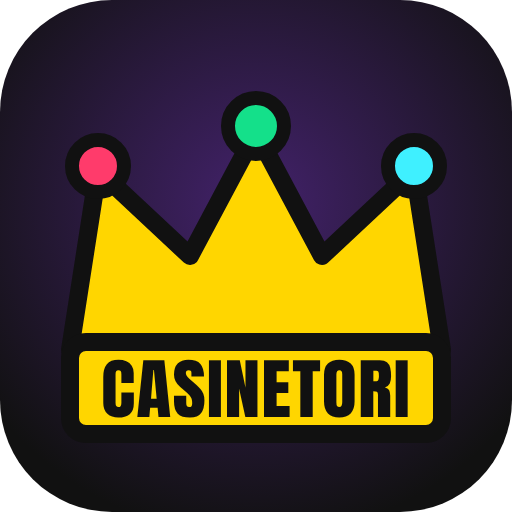
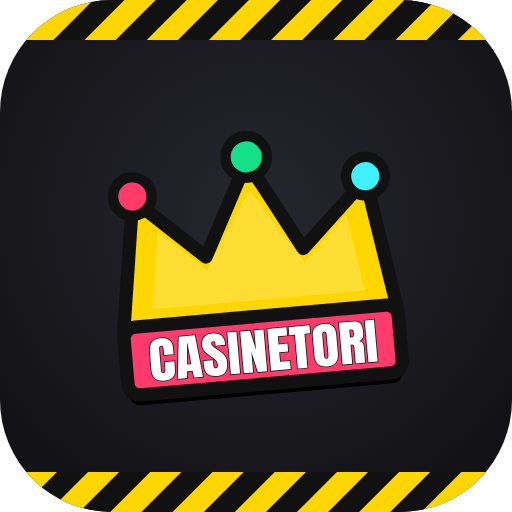
Icono v2: corona sobre negro con rayas de obra, banda rosa y sombra dura (estilo del juego)
Claude-Session: https://claude.ai/code/session_01BC8nAtJhdedbeHBd6GuHtL

diff --git a/preguntas.html b/preguntas.html
@@ -1,7 +1,7 @@
 <!doctype html><html lang="es"><head><meta charset="utf-8"><meta name="viewport" content="width=device-width,initial-scale=1">
 <title>Preguntas frecuentes | Casinetori</title><meta name="description" content="Respuestas sobre Casinetori: qué es, si usa dinero real (no), si es gratis, cómo jugar con amigos, el simulador de trading y cómo no perder tu cuenta."><meta name="theme-color" content="#0d1020">
-<link rel="icon" href="favicon.png?v=2"><link rel="canonical" href="https://casinetori.com/preguntas.html">
-<meta property="og:type" content="website"><meta property="og:site_name" content="Casinetori"><meta property="og:title" content="Preguntas frecuentes | Casinetori"><meta property="og:description" content="Respuestas sobre Casinetori: qué es, si usa dinero real (no), si es gratis, cómo jugar con amigos, el simulador de trading y cómo no perder tu cuenta."><meta property="og:url" content="https://casinetori.com/preguntas.html"><meta property="og:image" content="https://casinetori.com/og.png?v=3"><meta name="twitter:card" content="summary_large_image">
+<link rel="icon" href="favicon.png?v=4"><link rel="canonical" href="https://casinetori.com/preguntas.html">
+<meta property="og:type" content="website"><meta property="og:site_name" content="Casinetori"><meta property="og:title" content="Preguntas frecuentes | Casinetori"><meta property="og:description" content="Respuestas sobre Casinetori: qué es, si usa dinero real (no), si es gratis, cómo jugar con amigos, el simulador de trading y cómo no perder tu cuenta."><meta property="og:url" content="https://casinetori.com/preguntas.html"><meta property="og:image" content="https://casinetori.com/og.png?v=4"><meta name="twitter:card" content="summary_large_image">
 <script async src="https://pagead2.googlesyndication.com/pagead/js/adsbygoogle.js?client=ca-pub-7676884795750639" crossorigin="anonymous"></script><script type="application/ld+json">{"@context": "https://schema.org", "@type": "BreadcrumbList", "itemListElement": [{"@type": "ListItem", "position": 1, "name": "Casinetori", "item": "https://casinetori.com/"}, {"@type": "ListItem", "position": 2, "name": "Preguntas frecuentes sobre Casinetori", "item": "https://casinetori.com/preguntas.html"}]}</script><script type="application/ld+json">{"@context": "https://schema.org", "@type": "FAQPage", "mainEntity": [{"@type": "Question", "name": "¿Qué es Casinetori?", "acceptedAnswer": {"@type": "Answer", "text": "Casinetori es una plataforma de entretenimiento gratuita con casino virtual, trading simulado, minijuegos arcade, rankings y funciones para jugar con amigos."}}, {"@type": "Question", "name": "¿Casinetori usa dinero real?", "acceptedAnswer": {"@type": "Answer", "text": "No. Todo el dinero de Casinetori es ficticio. No se puede apostar dinero real ni comprar dinero del juego."}}, {"@type": "Question", "name": "¿Se puede ganar dinero real?", "acceptedAnswer": {"@type": "Answer", "text": "No. Las monedas y los resultados de Casinetori son virtuales y no tienen ningún valor fuera del juego."}}, {"@type": "Question", "name": "¿Es gratis?", "acceptedAnswer": {"@type": "Answer", "text": "Sí. Se juega gratis desde el navegador del móvil o del ordenador, sin instalar nada. La web se mantiene con anuncios."}}, {"@type": "Question", "name": "¿Se puede jugar con amigos?", "acceptedAnswer": {"@type": "Answer", "text": "Sí. Agregas a tus amigos con su código y podéis competir en la clasificación, regalaros dinero ficticio, mandaros mensajitos y jugar duelos online."}}, {"@type": "Question", "name": "¿Qué es el trading de Casinetori?", "acceptedAnswer": {"@type": "Answer", "text": "Es un simulador de trading con precios ficticios y dinero virtual. Sirve para entretenerse y entender cómo se mueve un mercado, no es asesoramiento financiero."}}, {"@type": "Question", "name": "¿Necesito crear una cuenta?", "acceptedAnswer": {"@type": "Answer", "text": "No. Puedes jugar sin cuenta y tu partida se guarda en tu dispositivo. Si entras con Google, tu partida se guarda en la nube y la tienes en cualquier móvil u ordenador."}}, {"@type": "Question", "name": "¿Qué pasa si pierdo mi cuenta?", "acceptedAnswer": {"@type": "Answer", "text": "Si entras con Google no la pierdes. Si usas usuario y contraseña, apunta tu código de recuperación (Ajustes › Cuenta): con él el jefe del juego puede devolverte la partida."}}]}</script><style>*{box-sizing:border-box}html{-webkit-text-size-adjust:100%}body{margin:0;background:#0d1020;color:#e9ecf8;font:17px/1.65 system-ui,-apple-system,"Segoe UI",Roboto,sans-serif}
 a{color:#ffd600}header{border-bottom:3px dashed #ffd600;background:#14172a}header .in,main,footer .in{max-width:760px;margin:0 auto;padding:16px}
 header .in{display:flex;align-items:center;gap:12px;justify-content:space-between}header a.logo{display:flex;align-items:center;gap:10px;color:#fff;text-decoration:none;font-weight:900;font-size:22px;letter-spacing:.5px}

diff --git a/grupos.html b/grupos.html
@@ -1,8 +1,8 @@
 <!doctype html>
 <html lang="es"><head><meta charset="utf-8"><meta name="viewport" content="width=device-width,initial-scale=1">
 <title>Grupos de amigos y Clasificación propia | Casinetori</title><meta name="description" content="Crea un grupo en Casinetori, invita con enlace o código y compara dinero ficticio, nivel y puntos con tus amigos. Puedes pertenecer a tres grupos."><meta name="theme-color" content="#0d1020">
-<link rel="icon" href="favicon.png?v=2"><link rel="canonical" href="https://casinetori.com/grupos.html">
-<meta property="og:type" content="website"><meta property="og:site_name" content="Casinetori"><meta property="og:locale" content="es_ES"><meta property="og:title" content="Grupos de amigos y Clasificación propia | Casinetori"><meta property="og:description" content="Crea un grupo en Casinetori, invita con enlace o código y compara dinero ficticio, nivel y puntos con tus amigos. Puedes pertenecer a tres grupos."><meta property="og:url" content="https://casinetori.com/grupos.html"><meta property="og:image" content="https://casinetori.com/og.png?v=3"><meta property="og:image:alt" content="Casinetori, juego con dinero ficticio"><meta name="twitter:card" content="summary_large_image">
+<link rel="icon" href="favicon.png?v=4"><link rel="canonical" href="https://casinetori.com/grupos.html">
+<meta property="og:type" content="website"><meta property="og:site_name" content="Casinetori"><meta property="og:locale" content="es_ES"><meta property="og:title" content="Grupos de amigos y Clasificación propia | Casinetori"><meta property="og:description" content="Crea un grupo en Casinetori, invita con enlace o código y compara dinero ficticio, nivel y puntos con tus amigos. Puedes pertenecer a tres grupos."><meta property="og:url" content="https://casinetori.com/grupos.html"><meta property="og:image" content="https://casinetori.com/og.png?v=4"><meta property="og:image:alt" content="Casinetori, juego con dinero ficticio"><meta name="twitter:card" content="summary_large_image">
 <script type="application/ld+json">{"@context": "https://schema.org", "@type": "BreadcrumbList", "itemListElement": [{"@type": "ListItem", "position": 1, "name": "Casinetori", "item": "https://casinetori.com/"}, {"@type": "ListItem", "position": 2, "name": "Grupos de amigos: vuestra propia Clasificación", "item": "https://casinetori.com/grupos.html"}]}</script><style>*{box-sizing:border-box}html{-webkit-text-size-adjust:100%}body{margin:0;background:#0d1020;color:#e9ecf8;font:17px/1.65 system-ui,-apple-system,"Segoe UI",Roboto,sans-serif}
 a{color:#ffd600}header{border-bottom:3px dashed #ffd600;background:#14172a}header .in,main,footer .in{max-width:760px;margin:0 auto;padding:16px}
 header .in{display:flex;align-items:center;gap:12px;justify-content:space-between}header a.logo{display:flex;align-items:center;gap:10px;color:#fff;text-decoration:none;font-weight:900;font-size:22px;letter-spacing:.5px}

diff --git a/bolsa.html b/bolsa.html
@@ -1,8 +1,8 @@
 <!doctype html>
 <html lang="es"><head><meta charset="utf-8"><meta name="viewport" content="width=device-width,initial-scale=1">
 <title>Bolsa de Jugadores con dinero ficticio | Casinetori</title><meta name="description" content="Descubre la Bolsa de Jugadores de Casinetori: acciones virtuales, cartera y precios según el progreso de los jugadores. Todo con dinero ficticio."><meta name="theme-color" content="#0d1020">
-<link rel="icon" href="favicon.png?v=2"><link rel="canonical" href="https://casinetori.com/bolsa.html">
-<meta property="og:type" content="website"><meta property="og:site_name" content="Casinetori"><meta property="og:locale" content="es_ES"><meta property="og:title" content="Bolsa de Jugadores con dinero ficticio | Casinetori"><meta property="og:description" content="Descubre la Bolsa de Jugadores de Casinetori: acciones virtuales, cartera y precios según el progreso de los jugadores. Todo con dinero ficticio."><meta property="og:url" content="https://casinetori.com/bolsa.html"><meta property="og:image" content="https://casinetori.com/og.png?v=3"><meta property="og:image:alt" content="Casinetori, juego con dinero ficticio"><meta name="twitter:card" content="summary_large_image">
+<link rel="icon" href="favicon.png?v=4"><link rel="canonical" href="https://casinetori.com/bolsa.html">
+<meta property="og:type" content="website"><meta property="og:site_name" content="Casinetori"><meta property="og:locale" content="es_ES"><meta property="og:title" content="Bolsa de Jugadores con dinero ficticio | Casinetori"><meta property="og:description" content="Descubre la Bolsa de Jugadores de Casinetori: acciones virtuales, cartera y precios según el progreso de los jugadores. Todo con dinero ficticio."><meta property="og:url" content="https://casinetori.com/bolsa.html"><meta property="og:image" content="https://casinetori.com/og.png?v=4"><meta property="og:image:alt" content="Casinetori, juego con dinero ficticio"><meta name="twitter:card" content="summary_large_image">
 <script type="application/ld+json">{"@context": "https://schema.org", "@type": "BreadcrumbList", "itemListElement": [{"@type": "ListItem", "position": 1, "name": "Casinetori", "item": "https://casinetori.com/"}, {"@type": "ListItem", "position": 2, "name": "Bolsa de Jugadores: una cartera basada en el juego", "item": "https://casinetori.com/bolsa.html"}]}</script><style>*{box-sizing:border-box}html{-webkit-text-size-adjust:100%}body{margin:0;background:#0d1020;color:#e9ecf8;font:17px/1.65 system-ui,-apple-system,"Segoe UI",Roboto,sans-serif}
 a{color:#ffd600}header{border-bottom:3px dashed #ffd600;background:#14172a}header .in,main,footer .in{max-width:760px;margin:0 auto;padding:16px}
 header .in{display:flex;align-items:center;gap:12px;justify-content:space-between}header a.logo{display:flex;align-items:center;gap:10px;color:#fff;text-decoration:none;font-weight:900;font-size:22px;letter-spacing:.5px}

diff --git a/casino.html b/casino.html
@@ -1,7 +1,7 @@
 <!doctype html><html lang="es"><head><meta charset="utf-8"><meta name="viewport" content="width=device-width,initial-scale=1">
 <title>Juegos de casino de mentira, sin dinero real | Casinetori</title><meta name="description" content="Juega gratis a juegos de casino virtual con monedas ficticias: tragaperras, ruleta, blackjack y más. Compite en la clasificación con tus amigos sin usar dinero real."><meta name="theme-color" content="#0d1020">
-<link rel="icon" href="favicon.png?v=2"><link rel="canonical" href="https://casinetori.com/casino.html">
-<meta property="og:type" content="website"><meta property="og:site_name" content="Casinetori"><meta property="og:title" content="Juegos de casino de mentira, sin dinero real | Casinetori"><meta property="og:description" content="Juega gratis a juegos de casino virtual con monedas ficticias: tragaperras, ruleta, blackjack y más. Compite en la clasificación con tus amigos sin usar dinero real."><meta property="og:url" content="https://casinetori.com/casino.html"><meta property="og:image" content="https://casinetori.com/og.png?v=3"><meta name="twitter:card" content="summary_large_image">
+<link rel="icon" href="favicon.png?v=4"><link rel="canonical" href="https://casinetori.com/casino.html">
+<meta property="og:type" content="website"><meta property="og:site_name" content="Casinetori"><meta property="og:title" content="Juegos de casino de mentira, sin dinero real | Casinetori"><meta property="og:description" content="Juega gratis a juegos de casino virtual con monedas ficticias: tragaperras, ruleta, blackjack y más. Compite en la clasificación con tus amigos sin usar dinero real."><meta property="og:url" content="https://casinetori.com/casino.html"><meta property="og:image" content="https://casinetori.com/og.png?v=4"><meta name="twitter:card" content="summary_large_image">
 <script async src="https://pagead2.googlesyndication.com/pagead/js/adsbygoogle.js?client=ca-pub-7676884795750639" crossorigin="anonymous"></script><script type="application/ld+json">{"@context": "https://schema.org", "@type": "BreadcrumbList", "itemListElement": [{"@type": "ListItem", "position": 1, "name": "Casinetori", "item": "https://casinetori.com/"}, {"@type": "ListItem", "position": 2, "name": "Casino virtual con dinero ficticio", "item": "https://casinetori.com/casino.html"}]}</script><style>*{box-sizing:border-box}html{-webkit-text-size-adjust:100%}body{margin:0;background:#0d1020;color:#e9ecf8;font:17px/1.65 system-ui,-apple-system,"Segoe UI",Roboto,sans-serif}
 a{color:#ffd600}header{border-bottom:3px dashed #ffd600;background:#14172a}header .in,main,footer .in{max-width:760px;margin:0 auto;padding:16px}
 header .in{display:flex;align-items:center;gap:12px;justify-content:space-between}header a.logo{display:flex;align-items:center;gap:10px;color:#fff;text-decoration:none;font-weight:900;font-size:22px;letter-spacing:.5px}

diff --git a/trading.html b/trading.html
@@ -1,7 +1,7 @@
 <!doctype html><html lang="es"><head><meta charset="utf-8"><meta name="viewport" content="width=device-width,initial-scale=1">
 <title>Simulador de trading con dinero virtual | Casinetori</title><meta name="description" content="Practica trading de forma virtual: opera con dinero ficticio, sigue tus resultados en gráficas en tiempo real y compite con otros jugadores en la clasificación."><meta name="theme-color" content="#0d1020">
-<link rel="icon" href="favicon.png?v=2"><link rel="canonical" href="https://casinetori.com/trading.html">
-<meta property="og:type" content="website"><meta property="og:site_name" content="Casinetori"><meta property="og:title" content="Simulador de trading con dinero virtual | Casinetori"><meta property="og:description" content="Practica trading de forma virtual: opera con dinero ficticio, sigue tus resultados en gráficas en tiempo real y compite con otros jugadores en la clasificación."><meta property="og:url" content="https://casinetori.com/trading.html"><meta property="og:image" content="https://casinetori.com/og.png?v=3"><meta name="twitter:card" content="summary_large_image">
+<link rel="icon" href="favicon.png?v=4"><link rel="canonical" href="https://casinetori.com/trading.html">
+<meta property="og:type" content="website"><meta property="og:site_name" content="Casinetori"><meta property="og:title" content="Simulador de trading con dinero virtual | Casinetori"><meta property="og:description" content="Practica trading de forma virtual: opera con dinero ficticio, sigue tus resultados en gráficas en tiempo real y compite con otros jugadores en la clasificación."><meta property="og:url" content="https://casinetori.com/trading.html"><meta property="og:image" content="https://casinetori.com/og.png?v=4"><meta name="twitter:card" content="summary_large_image">
 <script async src="https://pagead2.googlesyndication.com/pagead/js/adsbygoogle.js?client=ca-pub-7676884795750639" crossorigin="anonymous"></script><script type="application/ld+json">{"@context": "https://schema.org", "@type": "BreadcrumbList", "itemListElement": [{"@type": "ListItem", "position": 1, "name": "Casinetori", "item": "https://casinetori.com/"}, {"@type": "ListItem", "position": 2, "name": "Trading simulado con dinero virtual", "item": "https://casinetori.com/trading.html"}]}</script><style>*{box-sizing:border-box}html{-webkit-text-size-adjust:100%}body{margin:0;background:#0d1020;color:#e9ecf8;font:17px/1.65 system-ui,-apple-system,"Segoe UI",Roboto,sans-serif}
 a{color:#ffd600}header{border-bottom:3px dashed #ffd600;background:#14172a}header .in,main,footer .in{max-width:760px;margin:0 auto;padding:16px}
 header .in{display:flex;align-items:center;gap:12px;justify-content:space-between}header a.logo{display:flex;align-items:center;gap:10px;color:#fff;text-decoration:none;font-weight:900;font-size:22px;letter-spacing:.5px}

diff --git a/ranking.html b/ranking.html
@@ -1,7 +1,7 @@
 <!doctype html><html lang="es"><head><meta charset="utf-8"><meta name="viewport" content="width=device-width,initial-scale=1">
 <title>Clasificación de jugadores | Casinetori</title><meta name="description" content="Consulta la clasificación (ranking) de Casinetori: quién tiene más dinero ficticio, más nivel, más logros y los mejores récords en cada juego. Compite con tus amigos."><meta name="theme-color" content="#0d1020">
-<link rel="icon" href="favicon.png?v=2"><link rel="canonical" href="https://casinetori.com/ranking.html">
-<meta property="og:type" content="website"><meta property="og:site_name" content="Casinetori"><meta property="og:title" content="Clasificación de jugadores | Casinetori"><meta property="og:description" content="Consulta la clasificación (ranking) de Casinetori: quién tiene más dinero ficticio, más nivel, más logros y los mejores récords en cada juego. Compite con tus amigos."><meta property="og:url" content="https://casinetori.com/ranking.html"><meta property="og:image" content="https://casinetori.com/og.png?v=3"><meta name="twitter:card" content="summary_large_image">
+<link rel="icon" href="favicon.png?v=4"><link rel="canonical" href="https://casinetori.com/ranking.html">
+<meta property="og:type" content="website"><meta property="og:site_name" content="Casinetori"><meta property="og:title" content="Clasificación de jugadores | Casinetori"><meta property="og:description" content="Consulta la clasificación (ranking) de Casinetori: quién tiene más dinero ficticio, más nivel, más logros y los mejores récords en cada juego. Compite con tus amigos."><meta property="og:url" content="https://casinetori.com/ranking.html"><meta property="og:image" content="https://casinetori.com/og.png?v=4"><meta name="twitter:card" content="summary_large_image">
 <script async src="https://pagead2.googlesyndication.com/pagead/js/adsbygoogle.js?client=ca-pub-7676884795750639" crossorigin="anonymous"></script><script type="application/ld+json">{"@context": "https://schema.org", "@type": "BreadcrumbList", "itemListElement": [{"@type": "ListItem", "position": 1, "name": "Casinetori", "item": "https://casinetori.com/"}, {"@type": "ListItem", "position": 2, "name": "Clasificación de jugadores", "item": "https://casinetori.com/ranking.html"}]}</script><style>*{box-sizing:border-box}html{-webkit-text-size-adjust:100%}body{margin:0;background:#0d1020;color:#e9ecf8;font:17px/1.65 system-ui,-apple-system,"Segoe UI",Roboto,sans-serif}
 a{color:#ffd600}header{border-bottom:3px dashed #ffd600;background:#14172a}header .in,main,footer .in{max-width:760px;margin:0 auto;padding:16px}
 header .in{display:flex;align-items:center;gap:12px;justify-content:space-between}header a.logo{display:flex;align-items:center;gap:10px;color:#fff;text-decoration:none;font-weight:900;font-size:22px;letter-spacing:.5px}

diff --git a/amigos.html b/amigos.html
@@ -1,7 +1,7 @@
 <!doctype html><html lang="es"><head><meta charset="utf-8"><meta name="viewport" content="width=device-width,initial-scale=1">
 <title>Juegos online con amigos | Casinetori</title><meta name="description" content="Juega online con tus amigos en Casinetori: agrégalos con su código, regálales dinero ficticio, mándales mensajitos, retaos a duelos y competid en la clasificación."><meta name="theme-color" content="#0d1020">
-<link rel="icon" href="favicon.png?v=2"><link rel="canonical" href="https://casinetori.com/amigos.html">
-<meta property="og:type" content="website"><meta property="og:site_name" content="Casinetori"><meta property="og:title" content="Juegos online con amigos | Casinetori"><meta property="og:description" content="Juega online con tus amigos en Casinetori: agrégalos con su código, regálales dinero ficticio, mándales mensajitos, retaos a duelos y competid en la clasificación."><meta property="og:url" content="https://casinetori.com/amigos.html"><meta property="og:image" content="https://casinetori.com/og.png?v=3"><meta name="twitter:card" content="summary_large_image">
+<link rel="icon" href="favicon.png?v=4"><link rel="canonical" href="https://casinetori.com/amigos.html">
+<meta property="og:type" content="website"><meta property="og:site_name" content="Casinetori"><meta property="og:title" content="Juegos online con amigos | Casinetori"><meta property="og:description" content="Juega online con tus amigos en Casinetori: agrégalos con su código, regálales dinero ficticio, mándales mensajitos, retaos a duelos y competid en la clasificación."><meta property="og:url" content="https://casinetori.com/amigos.html"><meta property="og:image" content="https://casinetori.com/og.png?v=4"><meta name="twitter:card" content="summary_large_image">
 <script async src="https://pagead2.googlesyndication.com/pagead/js/adsbygoogle.js?client=ca-pub-7676884795750639" crossorigin="anonymous"></script><script type="application/ld+json">{"@context": "https://schema.org", "@type": "BreadcrumbList", "itemListElement": [{"@type": "ListItem", "position": 1, "name": "Casinetori", "item": "https://casinetori.com/"}, {"@type": "ListItem", "position": 2, "name": "Juega y compite con tus amigos", "item": "https://casinetori.com/amigos.html"}]}</script><style>*{box-sizing:border-box}html{-webkit-text-size-adjust:100%}body{margin:0;background:#0d1020;color:#e9ecf8;font:17px/1.65 system-ui,-apple-system,"Segoe UI",Roboto,sans-serif}
 a{color:#ffd600}header{border-bottom:3px dashed #ffd600;background:#14172a}header .in,main,footer .in{max-width:760px;margin:0 auto;padding:16px}
 header .in{display:flex;align-items:center;gap:12px;justify-content:space-between}header a.logo{display:flex;align-items:center;gap:10px;color:#fff;text-decoration:none;font-weight:900;font-size:22px;letter-spacing:.5px}

diff --git a/sobre.html b/sobre.html
@@ -1,6 +1,6 @@
 <!doctype html><html lang="es"><head><meta charset="utf-8"><meta name="viewport" content="width=device-width,initial-scale=1">
 <title>¿Qué es Casinetori? | Juegos virtuales y trading simulado</title><meta name="description" content="Casinetori es una plataforma de entretenimiento gratuita con casino virtual, trading simulado, minijuegos y clasificaciones para competir con amigos. Todo con dinero ficticio."><meta name="theme-color" content="#0d1020">
-<link rel="icon" href="favicon.png?v=2"><link rel="canonical" href="https://casinetori.com/sobre.html"><script async src="https://pagead2.googlesyndication.com/pagead/js/adsbygoogle.js?client=ca-pub-7676884795750639" crossorigin="anonymous"></script><style>*{box-sizing:border-box}html{-webkit-text-size-adjust:100%}body{margin:0;background:#0d1020;color:#e9ecf8;font:17px/1.65 system-ui,-apple-system,"Segoe UI",Roboto,sans-serif}
+<link rel="icon" href="favicon.png?v=4"><link rel="canonical" href="https://casinetori.com/sobre.html"><script async src="https://pagead2.googlesyndication.com/pagead/js/adsbygoogle.js?client=ca-pub-7676884795750639" crossorigin="anonymous"></script><style>*{box-sizing:border-box}html{-webkit-text-size-adjust:100%}body{margin:0;background:#0d1020;color:#e9ecf8;font:17px/1.65 system-ui,-apple-system,"Segoe UI",Roboto,sans-serif}
 a{color:#ffd600}header{border-bottom:3px dashed #ffd600;background:#14172a}header .in,main,footer .in{max-width:760px;margin:0 auto;padding:16px}
 header .in{display:flex;align-items:center;gap:12px;justify-content:space-between}header a.logo{display:flex;align-items:center;gap:10px;color:#fff;text-decoration:none;font-weight:900;font-size:22px;letter-spacing:.5px}
 header img{width:36px;height:36px;border-radius:9px}.play{background:#ffd600;color:#111;font-weight:900;text-decoration:none;padding:9px 16px;border-radius:10px;border:2px solid #000;box-shadow:3px 3px 0 #000;white-space:nowrap}

diff --git a/privacidad.html b/privacidad.html
@@ -1,6 +1,6 @@
 <!doctype html><html lang="es"><head><meta charset="utf-8"><meta name="viewport" content="width=device-width,initial-scale=1">
 <title>Política de privacidad y cookies · Casinetori</title><meta name="description" content="Qué datos recoge Casinetori, para qué y qué cookies usa."><meta name="theme-color" content="#0d1020">
-<link rel="icon" href="favicon.png?v=2"><link rel="canonical" href="https://casinetori.com/privacidad.html"><script async src="https://pagead2.googlesyndication.com/pagead/js/adsbygoogle.js?client=ca-pub-7676884795750639" crossorigin="anonymous"></script><style>*{box-sizing:border-box}html{-webkit-text-size-adjust:100%}body{margin:0;background:#0d1020;color:#e9ecf8;font:17px/1.65 system-ui,-apple-system,"Segoe UI",Roboto,sans-serif}
+<link rel="icon" href="favicon.png?v=4"><link rel="canonical" href="https://casinetori.com/privacidad.html"><script async src="https://pagead2.googlesyndication.com/pagead/js/adsbygoogle.js?client=ca-pub-7676884795750639" crossorigin="anonymous"></script><style>*{box-sizing:border-box}html{-webkit-text-size-adjust:100%}body{margin:0;background:#0d1020;color:#e9ecf8;font:17px/1.65 system-ui,-apple-system,"Segoe UI",Roboto,sans-serif}
 a{color:#ffd600}header{border-bottom:3px dashed #ffd600;background:#14172a}header .in,main,footer .in{max-width:760px;margin:0 auto;padding:16px}
 header .in{display:flex;align-items:center;gap:12px;justify-content:space-between}header a.logo{display:flex;align-items:center;gap:10px;color:#fff;text-decoration:none;font-weight:900;font-size:22px;letter-spacing:.5px}
 header img{width:36px;height:36px;border-radius:9px}.play{background:#ffd600;color:#111;font-weight:900;text-decoration:none;padding:9px 16px;border-radius:10px;border:2px solid #000;box-shadow:3px 3px 0 #000;white-space:nowrap}

diff --git a/aviso-legal_1.html b/aviso-legal_1.html
@@ -1,6 +1,6 @@
 <!doctype html><html lang="es"><head><meta charset="utf-8"><meta name="viewport" content="width=device-width,initial-scale=1">
 <title>Aviso legal y condiciones de uso · Casinetori</title><meta name="description" content="Aviso legal y condiciones de uso de Casinetori."><meta name="theme-color" content="#0d1020">
-<link rel="icon" href="favicon.png?v=2"><link rel="canonical" href="https://casinetori.com/aviso-legal.html"><script async src="https://pagead2.googlesyndication.com/pagead/js/adsbygoogle.js?client=ca-pub-7676884795750639" crossorigin="anonymous"></script><style>*{box-sizing:border-box}html{-webkit-text-size-adjust:100%}body{margin:0;background:#0d1020;color:#e9ecf8;font:17px/1.65 system-ui,-apple-system,"Segoe UI",Roboto,sans-serif}
+<link rel="icon" href="favicon.png?v=4"><link rel="canonical" href="https://casinetori.com/aviso-legal.html"><script async src="https://pagead2.googlesyndication.com/pagead/js/adsbygoogle.js?client=ca-pub-7676884795750639" crossorigin="anonymous"></script><style>*{box-sizing:border-box}html{-webkit-text-size-adjust:100%}body{margin:0;background:#0d1020;color:#e9ecf8;font:17px/1.65 system-ui,-apple-system,"Segoe UI",Roboto,sans-serif}
 a{color:#ffd600}header{border-bottom:3px dashed #ffd600;background:#14172a}header .in,main,footer .in{max-width:760px;margin:0 auto;padding:16px}
 header .in{display:flex;align-items:center;gap:12px;justify-content:space-between}header a.logo{display:flex;align-items:center;gap:10px;color:#fff;text-decoration:none;font-weight:900;font-size:22px;letter-spacing:.5px}
 header img{width:36px;height:36px;border-radius:9px}.play{background:#ffd600;color:#111;font-weight:900;text-decoration:none;padding:9px 16px;border-radius:10px;border:2px solid #000;box-shadow:3px 3px 0 #000;white-space:nowrap}

diff --git a/contacto.html b/contacto.html
@@ -1,6 +1,6 @@
 <!doctype html><html lang="es"><head><meta charset="utf-8"><meta name="viewport" content="width=device-width,initial-scale=1">
 <title>Contacto · Casinetori</title><meta name="description" content="Cómo contactar con Casinetori."><meta name="theme-color" content="#0d1020">
-<link rel="icon" href="favicon.png?v=2"><link rel="canonical" href="https://casinetori.com/contacto.html"><script async src="https://pagead2.googlesyndication.com/pagead/js/adsbygoogle.js?client=ca-pub-7676884795750639" crossorigin="anonymous"></script><style>*{box-sizing:border-box}html{-webkit-text-size-adjust:100%}body{margin:0;background:#0d1020;color:#e9ecf8;font:17px/1.65 system-ui,-apple-system,"Segoe UI",Roboto,sans-serif}
+<link rel="icon" href="favicon.png?v=4"><link rel="canonical" href="https://casinetori.com/contacto.html"><script async src="https://pagead2.googlesyndication.com/pagead/js/adsbygoogle.js?client=ca-pub-7676884795750639" crossorigin="anonymous"></script><style>*{box-sizing:border-box}html{-webkit-text-size-adjust:100%}body{margin:0;background:#0d1020;color:#e9ecf8;font:17px/1.65 system-ui,-apple-system,"Segoe UI",Roboto,sans-serif}
 a{color:#ffd600}header{border-bottom:3px dashed #ffd600;background:#14172a}header .in,main,footer .in{max-width:760px;margin:0 auto;padding:16px}
 header .in{display:flex;align-items:center;gap:12px;justify-content:space-between}header a.logo{display:flex;align-items:center;gap:10px;color:#fff;text-decoration:none;font-weight:900;font-size:22px;letter-spacing:.5px}
 header img{width:36px;height:36px;border-radius:9px}.play{background:#ffd600;color:#111;font-weight:900;text-decoration:none;padding:9px 16px;border-radius:10px;border:2px solid #000;box-shadow:3px 3px 0 #000;white-space:nowrap}

diff --git a/index.html b/index.html
@@ -14,7 +14,7 @@ d.onclick=function(){try{localStorage.setItem('vicio-arcade-v2-v','inicio')}catc
 <title>Casinetori · Minijuegos, ligas y retos con amigos</title>
 <meta name="theme-color" content="#141416">
 <meta name="app-version" content="2026-10-04-u">
-<link rel="icon" type="image/png" href="favicon.png?v=2"><link rel="apple-touch-icon" href="apple-touch-icon.png?v=3">
+<link rel="icon" type="image/png" href="favicon.png?v=4"><link rel="apple-touch-icon" href="apple-touch-icon.png?v=4">
 <style>[hidden]{display:none!important}html,body{margin:0}img{max-width:100%}#toasts{top:auto;bottom:calc(20px + env(safe-area-inset-bottom,0px))}
 @media (max-width:880px){#toasts{top:calc(var(--barh,64px) + 8px + env(safe-area-inset-top,0px));bottom:auto}}
 @media (max-width:880px){.nav .nb{font-size:9px;letter-spacing:0;min-width:0;overflow:hidden}.nav .nb .ico{width:36px}}
@@ -3370,8 +3370,8 @@ html body #trLiveBar{position:static;margin:0 0 8px;left:auto;right:auto;top:aut
 <link rel="canonical" href="https://casinetori.com/">
 <script async src="https://pagead2.googlesyndication.com/pagead/js/adsbygoogle.js?client=ca-pub-7676884795750639" crossorigin="anonymous"></script>
 <meta property="og:url" content="https://casinetori.com/">
-<meta property="og:image" content="https://casinetori.com/og.png?v=3">
-<meta name="twitter:image" content="https://casinetori.com/og.png?v=3">
+<meta property="og:image" content="https://casinetori.com/og.png?v=4">
+<meta name="twitter:image" content="https://casinetori.com/og.png?v=4">
 <!-- Cuando Google Search Console te dé el código, quita el comentario y pégalo aquí:
 <meta name="google-site-verification" content="CODIGO_DE_SEARCH_CONSOLE">
 -->
